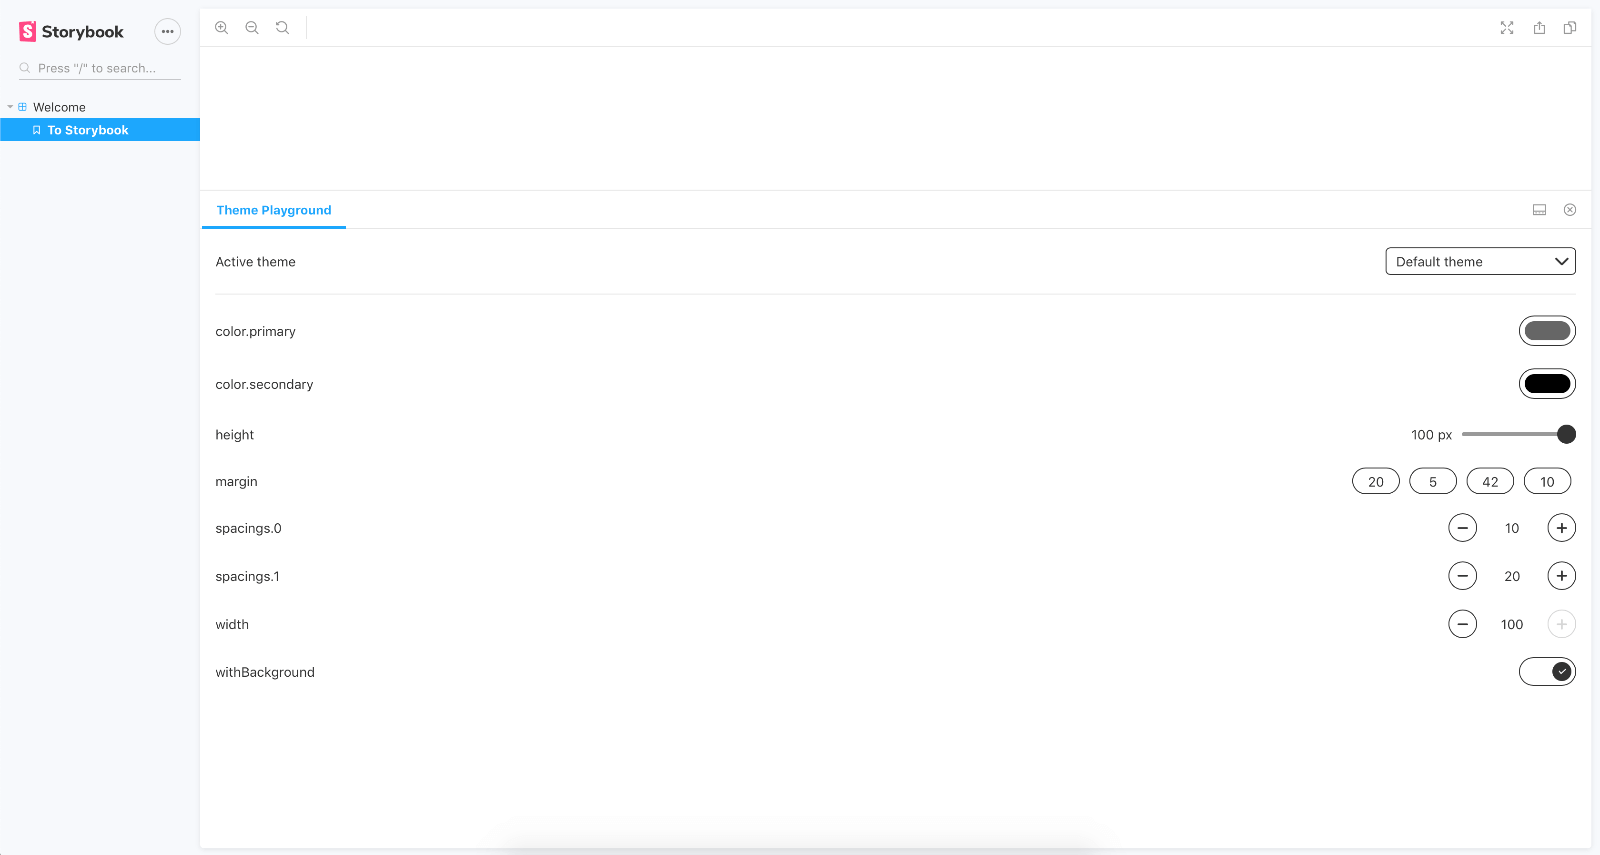
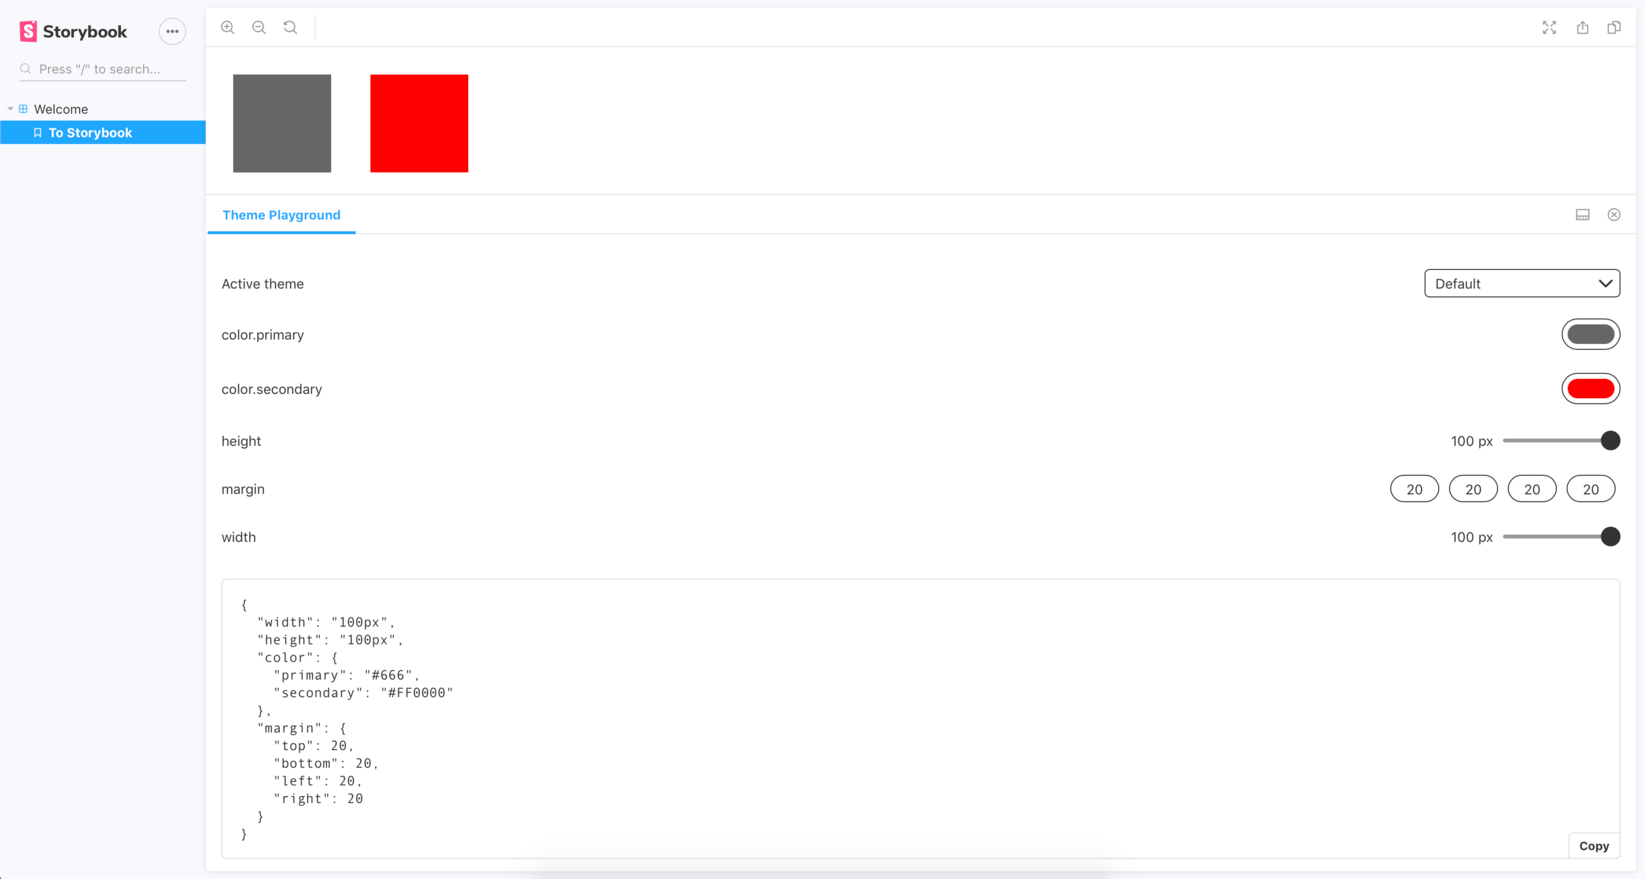
Updated panel

diff --git a/src/components/Panel/Panel.tsx b/src/components/Panel/Panel.tsx
@@ -1,11 +1,12 @@
 import * as React from 'react';
 
+import { SettingsContext } from '../../contexts/SettingsProvider';
+
+import Code from '../Code/Code';
 import SettingsItem from '../SettingsItem/SettingsItem';
 import Select from '../Select/Select';
 
 import StyledPanel from './Panel.style';
-import { SettingsContext } from '../../contexts/SettingsProvider';
-import Code from '../Code/Code';
 
 const Panel = () => {
   const { theme, themes, activeTheme, updateActiveTheme } = React.useContext(
@@ -14,24 +15,21 @@ const Panel = () => {
 
   return (
     <StyledPanel>
-      {themes.length > 1 && (
-        <>
-          <Select
-            label="Active theme"
-            initialValue={activeTheme}
-            onChange={val => {
-              updateActiveTheme(themes.filter(t => t.name === val)[0]);
-            }}
-            options={themes.map(t => ({ value: t.name }))}
-          />
-
-          <hr />
-        </>
-      )}
-
       {theme && Object.entries(theme).length > 0 && (
         <>
-          <SettingsItem obj={theme} arr={[]} />
+          <div className="panel__content">
+            {themes.length > 1 && (
+              <Select
+                label="Active theme"
+                initialValue={activeTheme}
+                onChange={val => {
+                  updateActiveTheme(themes.filter(t => t.name === val)[0]);
+                }}
+                options={themes.map(t => ({ value: t.name }))}
+              />
+            )}
+            <SettingsItem obj={theme} arr={[]} />
+          </div>
           <Code value={theme} />
         </>
       )}

diff --git a/src/components/Code/Code.style.tsx b/src/components/Code/Code.style.tsx
@@ -1,11 +1,5 @@
 import { styled } from '@storybook/theming';
-import {
-  getInverseTextColor,
-  getPrimaryColor,
-  getTextColor,
-  getSecondaryColor,
-  getCodeBackground
-} from '../../helper/color';
+import { getTextColor, getBorderColor } from '../../helper/color';
 
 const StyledCode = styled.div`
   position: relative;
@@ -14,32 +8,35 @@ const StyledCode = styled.div`
     margin: 0.5rem 0 0;
     border-radius: 5px;
     width: 100%;
-    background: ${({ theme }) => getCodeBackground(theme)};
+    background: none;
+    border: 1px solid ${({ theme }) => getBorderColor(theme)};
+
     color: ${({ theme }) => getTextColor(theme)};
   }
 
   pre {
     margin: 0;
     padding: 1rem;
+    font-size: 14px;
   }
 
   button {
     position: absolute;
-    bottom: 1rem;
-    right: 1rem;
+    bottom: -2px;
+    right: -2px;
     outline: none;
     border: none;
     padding: 5px 10px;
-    border-radius: 5px;
-    text-transform: uppercase;
+    border-radius: 5px 0px 5px 0px;
     font-weight: bold;
     font-size: 12px;
     cursor: pointer;
-    color: ${({ theme }) => getInverseTextColor(theme)};
-    background: ${({ theme }) => getPrimaryColor(theme)};
+    background: none;
+    color: ${({ theme }) => getTextColor(theme)};
+    border: 1px solid ${({ theme }) => getBorderColor(theme)};
 
     &:active {
-      color: ${({ theme }) => getInverseTextColor(theme)};
+      color: ${({ theme }) => getTextColor(theme)};
     }
 
     &:disabled {

diff --git a/src/helper/color.ts b/src/helper/color.ts
@@ -3,19 +3,13 @@ export const getPrimaryColor = theme => {
 };
 
 export const getSecondaryColor = theme => {
-  return theme.base === 'dark'
-    ? theme.color.mediumdark
-    : theme.color.mediumdark;
+  return theme.color.mediumdark;
 };
 
 export const getTextColor = theme => {
   return theme.color.defaultText;
 };
 
-export const getInverseTextColor = theme => {
-  return theme.color.inverseText;
-};
-
-export const getCodeBackground = theme => {
-  return theme.base === 'dark' ? theme.color.darker : theme.color.light;
+export const getBorderColor = theme => {
+  return theme.base === 'dark' ? theme.color.dark : theme.color.medium;
 };

diff --git a/src/components/Panel/Panel.style.tsx b/src/components/Panel/Panel.style.tsx
@@ -1,7 +1,14 @@
 import { styled } from '@storybook/theming';
 
 const StyledPanel = styled.div`
-  margin: 1rem;
+  height: calc(100% - 2rem);
+  margin: 1rem 1rem;
+  display: flex;
+  flex-direction: column;
+
+  .panel__content {
+    flex-grow: 2;
+  }
 `;
 
 export default StyledPanel;
